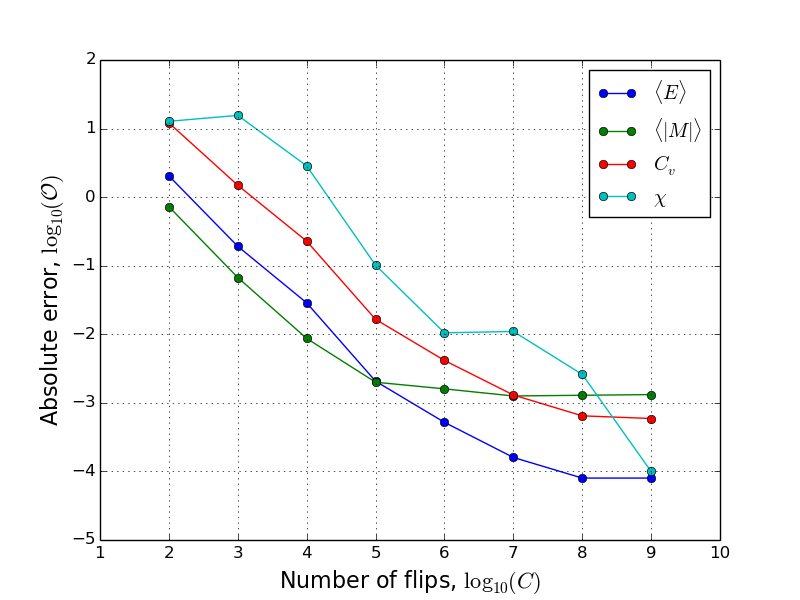
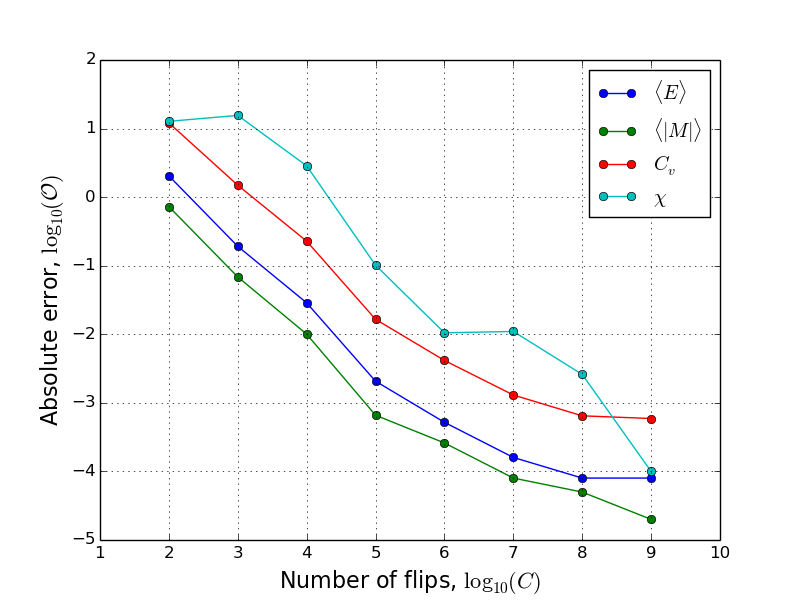
Added kristiansen

diff --git a/Project_5/kristiansen.py b/Project_5/kristiansen.py
@@ -1,0 +1,119 @@
+import numpy as np
+import sys
+
+class System:
+    
+    def __init__(self, Nparticles, Ndimensions, stepLength, alpha, beta, omega, numberOfMetropolisSteps):
+        
+        self.Nparticles               = Nparticles
+        self.Ndimensions              = Ndimensions
+        self.stepLength               = stepLength
+        self.alpha                    = alpha
+        self.beta                     = beta
+        self.particles                = self.setInitialState()
+        self.numberOfMetropolisSteps = numberOfMetropolisSteps
+        self.omega                      = omega
+        self.WaveFunction              = TrialWaveFunctionTwoParticles(self.omega)
+        
+    def setInitialState(self):
+        
+        particles = []
+        
+        for i in range(0,self.Nparticles):
+            
+            particle_i = Particle()
+            
+            r_init = np.zeros(self.Ndimensions)
+            
+            for j in range(0,self.Ndimensions):
+                r_init[j] = 2.0*np.random.uniform(0,1) - 1.0 #Draw random number between -1 and 1
+
+            particle_i.setPosition(r_init)
+            particles.append(particle_i)
+
+        return particles
+
+    def runMetropolisSteps(self):
+
+        nrOfAcceptedSteps = 0
+        accumulatedEnergy = self.computeLocalEnergy()
+
+        for i in range(0,self.numberOfMetropolisSteps):
+            accepted = self.metropolisStep() #Do a metropolisStep
+            #Sample stuff
+            if(accepted):
+                nrOfAcceptedSteps += 1
+                accumulatedEnergy += self.computeLocalEnergy()
+            else:
+                accumulatedEnergy += self.computeLocalEnergy()
+
+        print nrOfAcceptedSteps/float(self.numberOfMetropolisSteps), accumulatedEnergy/(self.numberOfMetropolisSteps+1)
+            
+
+    def metropolisStep(self):
+        #Here you should implement the Metropolis Algorithm
+        
+        #Compute probability at current position
+        PR = self.computeProbability()
+        
+        #Change the position of a random particle at random dimension
+        random_particle  = np.random.randint(0,self.Nparticles)
+        random_dimension = np.random.randint(0,self.Ndimensions)
+
+        change = 2.0*np.random.uniform(0,1) - 1.0
+        self.particles[random_particle].adjustPosition(change*self.stepLength,random_dimension)
+
+        #Compute probability at proposed position
+        PR_new = self.computeProbability()
+
+        w = PR_new/PR
+
+        if(w >= np.random.uniform(0,1)):
+            #Accept
+            return True
+        else:
+            #Reject step and reset position
+            self.particles[random_particle].adjustPosition(-change*self.stepLength,random_dimension)
+            return False
+
+    def computeProbability(self):
+        #Compute |psi_T|^2
+    
+    def computeLocalEnergy(self):
+        #Here you want to compute the local energy using the analytical expression you derive in
+        #exercise 5b.
+
+class TrialWaveFunctionTwoParticles:
+    def __init__(self, omega, alpha):
+        self.omega = omega
+        self.alpha = alpha
+    def evaluate(self, r1, r2, alpha):
+        #Evaluate the trial wavefunction
+    
+    def evaluateLaplacian(self,r1,r2,alpha):
+        #Here you should implement the anlytical expression of the laplacian of the trial wavefunction
+
+    #At a later stage you should also include the possibility of evaluating the wavefunction and its laplacian with
+    #jastrow factor
+
+class Particle:
+    def __init__(self, dimension=3):
+        self.position = np.zeros(dimension) #position[0] = x, position[1] = y, ...
+    def setPosition(self, pos):
+        for i in range(0,len(pos)):
+            self.position[i] = pos[i]
+    def adjustPosition(self, change, whichDim):
+        self.position[whichDim] += change
+    def getPosition(self):
+        return self.position
+
+#Nparticles  = 2
+#Ndimensions = 3
+#stepLength  = ...
+#alpha = ...
+#beta  = ...
+#numberOfMetropolisSteps = int(1e5)
+#omega = 1.0
+
+#system_test = System(Nparticles,Ndimensions,stepLength,alpha,beta,omega, numberOfMetropolisSteps)
+#system_test.runMetropolisSteps()

diff --git a/Project_4/plot_E_M.py b/Project_4/plot_E_M.py
@@ -1,7 +1,7 @@
 from scitools.std import *
 import matplotlib.pyplot as plt
 
-infile1 = open("E_M_T=1_0_file_random.dat", "r")
+infile1 = open("E_M_abs_T=1_0_file.dat", "r")
 t1 = []
 E_average1 = []
 M_average1 = []
@@ -12,7 +12,7 @@ for line in infile1:
     E_average1.append(float(words[1]))
     M_average1.append(float(words[2]))
 
-infile2 = open("E_M_T=2_4_file_random.dat", "r")
+infile2 = open("E_M_abs_T=2_4_file.dat", "r")
 t2 = []
 E_average2 = []
 M_average2 = []
@@ -28,21 +28,21 @@ axis_size = {"size" : "16"}
 plt.subplot(2,1,1)
 plt.plot(log10(t1), E_average1)
 plt.plot(log10(t2), E_average2)
-plt.legend(("T=1.0","T=2.4"),loc='best')
-#plt.title("Average energy", **axis_size)
+plt.legend(("T'=1.0","T'=2.4"),loc='best')
+plt.title("Random", **axis_size)
 plt.xlabel(r"Number of flips, $log_{10}(C)$", **axis_size)
 plt.ylabel(r"Average energy, $\langle E\rangle/J$", **axis_size)
-plt.axis([0, 8, -850, 100])
+plt.axis([0, 8, -850, -450])
 plt.grid()
 
 plt.subplot(2,1,2)
 plt.plot(log10(t1), M_average1)
 plt.plot(log10(t2), M_average2)
-plt.legend(["T=1.0","T=2.4"],loc='best')
+plt.legend(["T'=1.0","T'=2.4"],loc='best')
 #plt.title("Average magnetization", **axis_size)
 plt.xlabel(r"Number of flips, $log_{10}(C)$", **axis_size)
 plt.ylabel(r"Average magnetization, $\langle M\rangle$", **axis_size)
-plt.axis([0, 8, 50, -450])
+plt.axis([0, 8, -250, 450])
 plt.grid()
 
 plt.subplots_adjust(hspace=0.5)

diff --git a/Project_4/Project_4/measurements.cpp b/Project_4/Project_4/measurements.cpp
@@ -40,7 +40,7 @@ void run_measurements(double* X, double* Cv, int T, double beta, int L, bool ran
 
 //    //Write acerage energy and mean magnetization to file
 //    ofstream outfile_E_M;
-//    outfile_E_M.open("../E_M_T=1_0_file.dat");
+//    outfile_E_M.open("../E_M_abs_T=2_4_file.dat");
 
 //    ofstream outfile_E_prob;
 //    outfile_E_prob.open("../E_prob_file.dat");
@@ -138,9 +138,9 @@ void run_measurements(double* X, double* Cv, int T, double beta, int L, bool ran
                 M_tot_sqrd += M*M;
             }
         }
-//        double E_average        = E_tot/(t + 2.0);
-//        double M_average        = M_tot/(t + 2.0);
-//        double M_abs_average    = M_abs/(t + 2.0);
+        double E_average        = E_tot/(t + 2.0);
+        double M_average        = M_tot/(t + 2.0);
+        double M_abs_average    = M_abs/(t + 2.0);
 
         //Need this for doing measurements in exercise 4c
 //        if(T > 100 && t%100 == 0){
@@ -148,7 +148,7 @@ void run_measurements(double* X, double* Cv, int T, double beta, int L, bool ran
 //        }
 
 //        if(T > 100 && t%100 == 0){
-//            outfile_E_M << t + 2.0 << " " << E_average << " " << M_average << endl;
+//            outfile_E_M << t + 2.0 << " " << E_average << " " << M_abs_average << endl;
 //        }
 
 //        if(t > 1e6 && t%10 == 0){

diff --git a/Project_4/plot_accept_vs_MCc.py b/Project_4/plot_accept_vs_MCc.py
@@ -48,7 +48,7 @@ plt.plot(steps3,accept3)
 plt.title('Random', **SZ)
 plt.xlabel(r'Number of flips, $C$', **SZ)
 plt.ylabel(r'Ratio of acceped flips', **SZ)
-plt.legend(['T = 1.0', 'T = 2.4'], loc = 'best')
+plt.legend(["T' = 1.0", "T' = 2.4"], loc = 'best')
 plt.grid()
 
 plt.subplot(2,1,2)
@@ -57,9 +57,9 @@ plt.plot(steps1,accept1)
 plt.title('Ordered', **SZ)
 plt.xlabel(r'Number of flips, $C$', **SZ)
 plt.ylabel(r'Ratio of accepted flips', **SZ)
-plt.legend(['T = 1.0', 'T = 2.4'], loc = 'best')
+plt.legend(["T' = 1.0", "T' = 2.4"], loc = 'best')
 plt.grid()
-plt.axis([0,10000,-0.1,0.5])
+plt.axis([0,1000,-0.1,0.5])
 #plt.savefig('accept_vs_MCc.png')
 
 plt.subplots_adjust(hspace=0.5)

diff --git a/Project_4/plot_error.py b/Project_4/plot_error.py
@@ -3,7 +3,7 @@ import numpy as np
 
 time_list = [1e2,1e3,1e4,1e5,1e6,1e7,1e8,1e9]
 error_E = [2.04334e-00,1.9172e-01,2.873e-02,2.07e-03,5.2e-04,1.6e-04,8.0e-05,8.0e-05]
-error_M = [7.2597e-01,6.723e-02,8.7e-03,2.0e-03,1.6e-03,1.26e-03,1.29e-03,1.32e-03]
+error_M = [7.2731e-01,6.857e-02,1.004e-02,6.6e-04,2.6e-04,8e-05,5e-05,2e-05]
 error_Cv = [1.2105771e+01,1.490831e-00,2.28029e-01,1.6526e-02,4.155e-03,1.302e-03,6.47e-04,5.91e-04]
 error_X = [1.275783e+01,1.5566813e+01,2.8581e-00,1.018e-01,1.05e-02,1.1e-02,2.6e-03,1.0e-04]
 

diff --git a/Project_4/Project_4/main.cpp b/Project_4/Project_4/main.cpp
@@ -47,7 +47,7 @@ int main(int nargs, char* args[])
     clock_t start, finish;
     start = clock();
 
-    run_measurements(&X, &Cv, 1e9, 1./Temp, L, true, my_rank);
+    run_measurements(&X, &Cv, 1e6, 1./Temp, L, true, my_rank);
 
     //Numerical2(susceptibility, heat capacity, number of flips,
     //           beta, size of system, spin ordered randomly)
